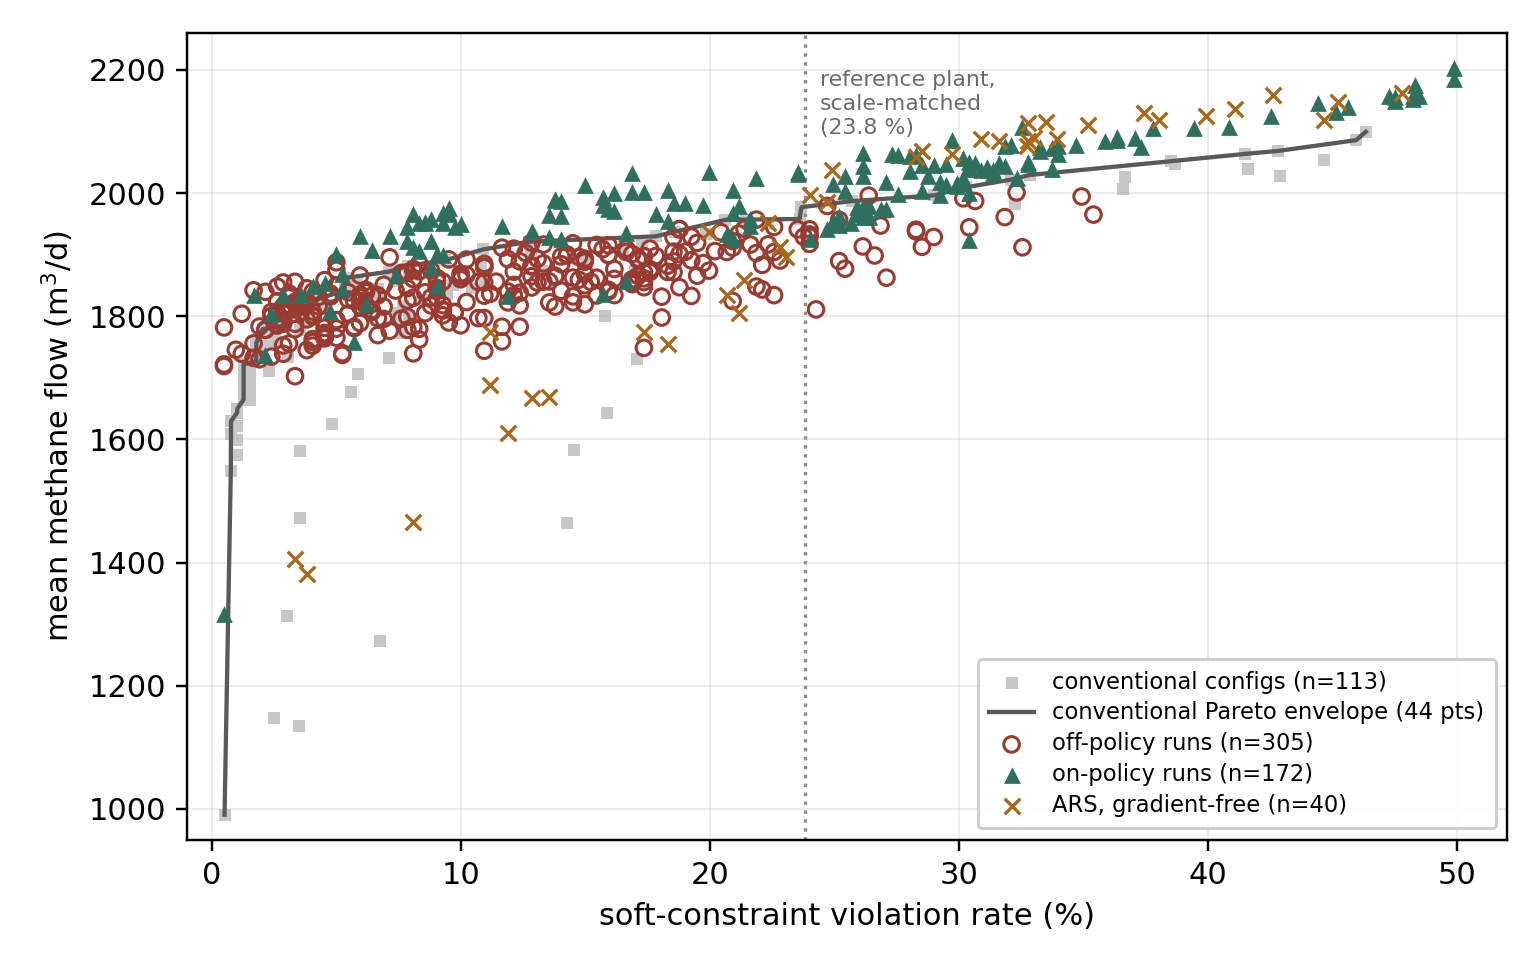
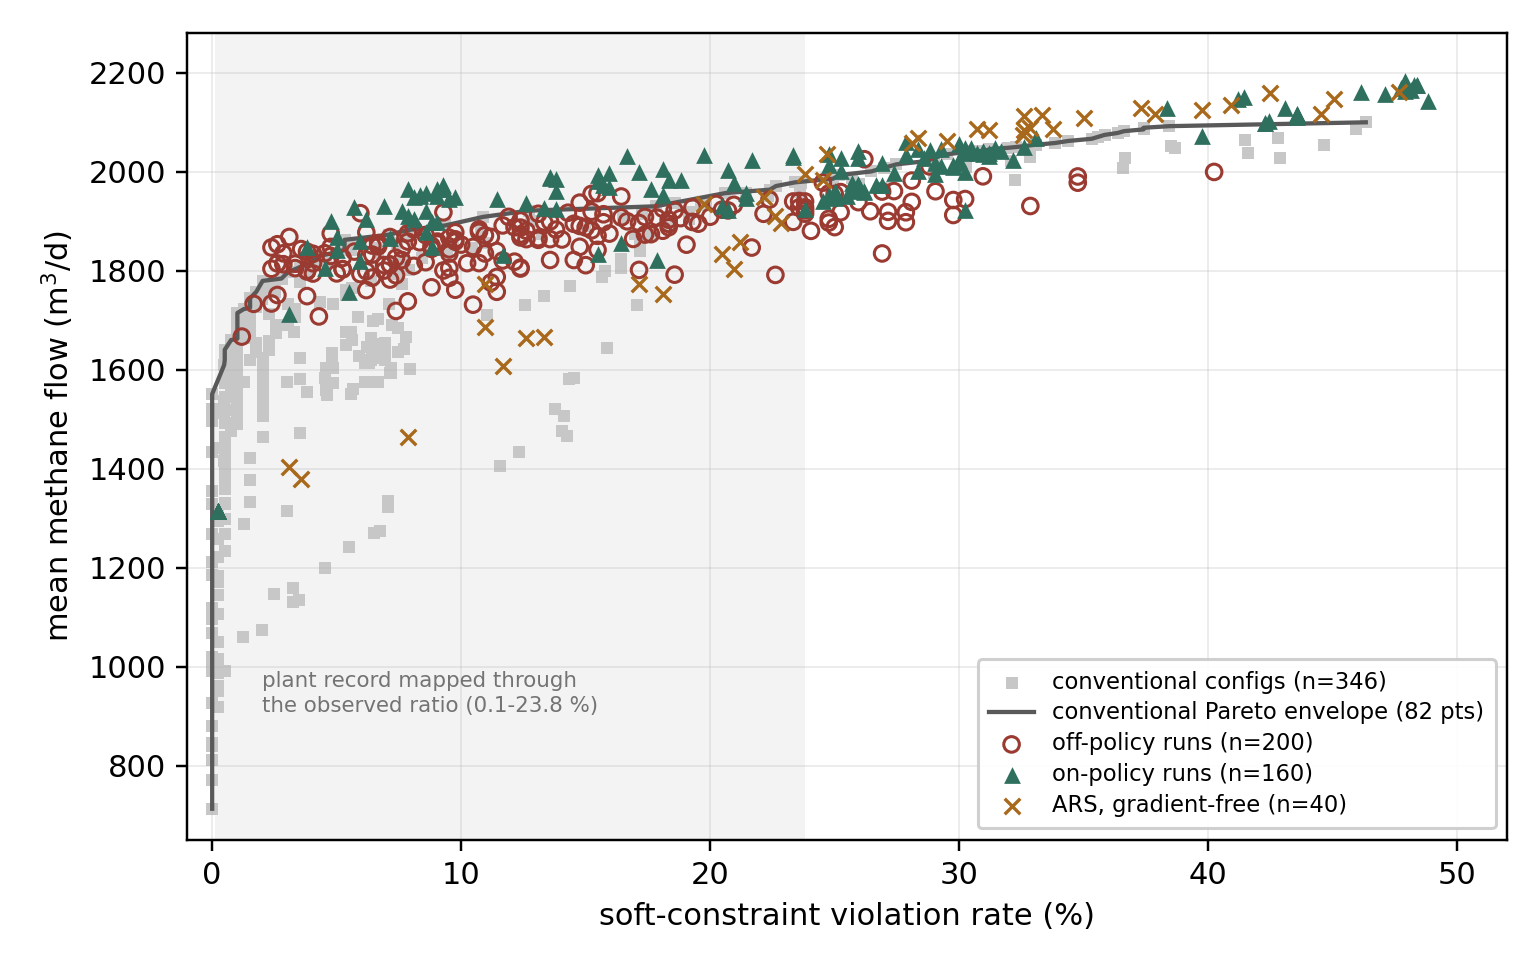
Rebuild the frontier figure from the extended envelope
The figure was drawn from the 113-configuration sweep and marked the plant
at a single 23.8 % line. It now uses the 346 configurations and their
82-point envelope, restricts the runs to the four swept penalty weights so
it matches the table, and shows the mapped plant record as a band, since
the ratio behind the mapping is not constant and its endpoints put the
plant anywhere from 0.1 % to 23.8 % exceedance.

diff --git a/figures/make_fig_frontier.py b/figures/make_fig_frontier.py
@@ -8,7 +8,14 @@ because the classification is the paper's main claim.
 import json, sys
 import numpy as np
 sys.path.insert(0, __import__('pathlib').Path(__file__).resolve().parents[1].as_posix())
-from paths import glob as dglob
+import glob as _g, os
+SP = os.environ.get('ADM1_S7', '/tmp/claude-1000/-home-ihpc-code/'
+                    'd8e23994-23f1-4be7-bbbc-30cb1d90de5a/scratchpad')
+def dglob(which):
+    if which == 'evbase':
+        return (_g.glob('results_frozen_20260915/evbase/*.json')
+                + _g.glob(f'{SP}/evbase_ext/*.json'))
+    return _g.glob(f'{SP}/s7/evres/*.json')
 import matplotlib; matplotlib.use('Agg')
 import matplotlib.pyplot as plt
 
@@ -28,18 +35,32 @@ def fam(m):
     for k, g in (('_recurrentppo_', 'RecurrentPPO'), ('_crossq_', 'CrossQ'),
                  ('_a2c_', 'A2C'), ('_ars_', 'ARS'), ('_ddpg_', 'DDPG'),
                  ('_td3_', 'TD3'), ('_trpo_', 'TRPO'), ('_ppo_', 'PPO'),
-                 ('_h5_tqc_', 'TQC+mem'), ('_h5_', 'SAC+mem')):
+                 ('_h5_tqc_', 'TQC+mem'), ('_h5_', 'SAC+mem'),
+                 ('_tqc_', 'TQC')):
         if k in m:
             return g
     if m.startswith('models_conv'):  return 'SAC'
     if m.startswith(('models_v5', 'models_seed')): return 'SAC'
     return None
 ON  = {'A2C', 'TRPO', 'PPO', 'RecurrentPPO'}
-OFF = {'SAC', 'TQC+mem', 'TD3', 'DDPG', 'CrossQ', 'SAC+mem'}
+OFF = {'SAC', 'TQC', 'TD3', 'DDPG', 'CrossQ'}
 
+WEIGHTS = ('lw0p5', 'lw1', 'lw2', 'lw5')
+CORRECTED = {'A2C': 'models_align', 'DDPG': 'models_noise',
+             'TD3': 'models_noise', 'CrossQ': 'models_native'}
 on, off, ars = [], [], []
-for r in R:
+seen = set()
+for r in sorted(R, key=lambda x: x.get('model', '')):
+    if r.get('steps') != 150000 or r.get('w') not in WEIGHTS:
+        continue
     g = fam(r['model'])
+    want = CORRECTED.get(g)
+    if want and not r['model'].startswith(want):
+        continue
+    key = (g, r.get('w'), r.get('seed'))
+    if key in seen:
+        continue
+    seen.add(key)
     if g in ON:    on.append((r['viol'], r['ch4']))
     elif g in OFF: off.append((r['viol'], r['ch4']))
     elif g == 'ARS': ars.append((r['viol'], r['ch4']))
@@ -57,13 +78,15 @@ ax.scatter(on[:, 0], on[:, 1], s=30, c='#2f6f5e', marker='^', linewidths=0,
 if len(ars):
     ax.scatter(ars[:, 0], ars[:, 1], s=26, c='#a9691c', marker='x',
                linewidths=1.1, zorder=4, label=f'ARS, gradient-free (n={len(ars)})')
-ax.axvline(23.8, color='0.55', ls=':', lw=1.1, zorder=1)
-ax.text(24.4, 2200, 'reference plant,\nscale-matched\n(23.8 %)', fontsize=7.2,
-        color='0.42', va='top', ha='left', linespacing=1.25)
+# The mapped plant range, not a single line: the ratio behind it is not
+# constant, so its endpoints (1579 and 3750 mg/L) bracket the comparison.
+ax.axvspan(0.1, 23.8, color='0.55', alpha=0.10, lw=0, zorder=0)
+ax.text(2.0, 900, 'plant record mapped through\nthe observed ratio (0.1-23.8 %)',
+        fontsize=7.0, color='0.45', va='bottom', ha='left', linespacing=1.3)
 
 ax.set_xlabel('soft-constraint violation rate (\\%)' if False else 'soft-constraint violation rate (%)')
 ax.set_ylabel('mean methane flow (m$^3$/d)')
-ax.set_xlim(-1, 52); ax.set_ylim(950, 2260)
+ax.set_xlim(-1, 52); ax.set_ylim(650, 2280)
 ax.grid(alpha=0.25, lw=0.6)
 ax.legend(fontsize=7.4, loc='lower right', framealpha=0.94, ncol=1,
           borderpad=0.5, labelspacing=0.35)
